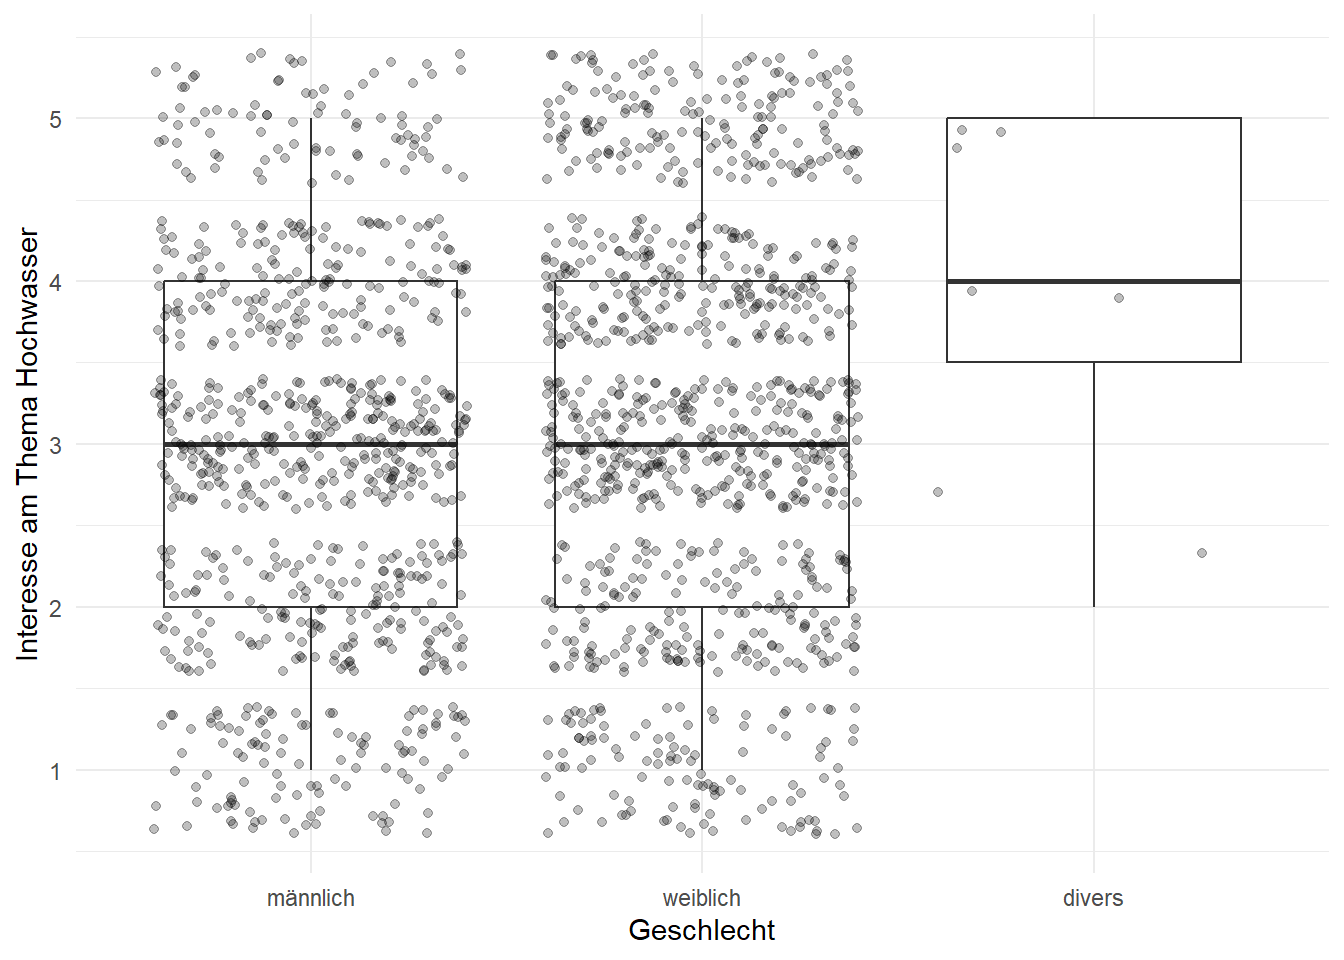
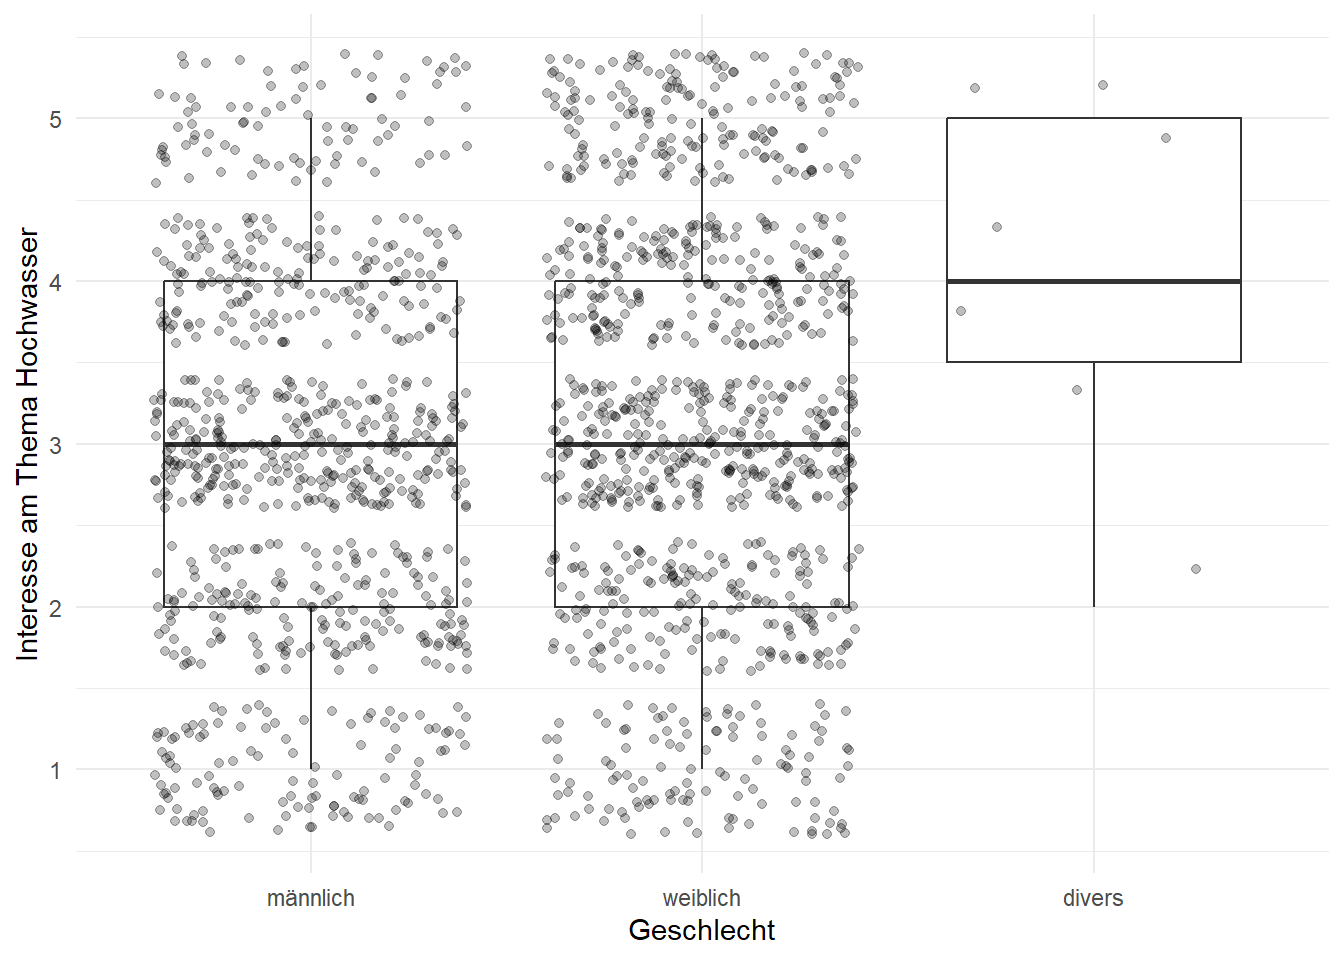
Add files via upload

diff --git a/docs/Skalenniveaus und deskriptive Datenanalyse.html b/docs/Skalenniveaus und deskriptive Datenanalyse.html
@@ -344,7 +344,7 @@ pre > code.sourceCode > span > a:first-child::before { text-decoration: underlin
 </div>
 <p>Nun sehen wir, dass der Wert <code>weiblich</code> am häufigsten vorkommt. Was wir nicht sehen, ist, wie oft der Wert vorkommt.</p>
 <p>Schauen wir uns als nächstes an, wie Sie nominale Daten bzw. den Modus visualisieren können. Im letzten Kapitel wurde in Kürze das <code>tidyverse</code> vorgestellt und auf das Paket <code>ggplot2</code> verwiesen, mit dem wir Plots erstellen können.</p>
-<p>Im Folgenden werden wir Schritt für Schritt ein einfaches Balkendiagramm erstellen und es nach und nach verbessern. Wir fangen damit an, dass wir das <code>tidyverse</code> laden. Wir erstellen dann ein neues Objekt für unseren Plot. Dazu geben wir unseren Datensatz mit der Pipe an die Funktion <code>ggplot()</code> weiter. Das ist die Hauptfunktion des Pakets. Üblicherweise wird innerhalb dieser Funktion die Funktion <code>aes()</code> (für aesthetics) aufgerufen, in der wir je nach Diagramm angeben, welche Spalten auf der x- und y-Achse dargestellt werden sollen. Für ein Balkendiagramm benötigen wir nur die x-Achse, geben also <code>x = geschlechtMitNAs</code> an. Damit sagen wir erstmal nur, welche Spalte wir darstellen wollen, aber noch nichts darüber, was für eine Darstellung es werden soll. Um die Art des Diagramms festzulegen, gibt es in <code>ggplot2</code> unzählige Funktionen, die alle mit <code>geom_</code> beginnen (für geometry). Hinter dem Unterstrich folgt dann der (englische) Name des Diagrammtyps. In unserem Fall eines Balkendiagramms, heißt die entsprechende Funktion <code>geom_bar()</code>. Anders als sonst, verbinden wir die Funktionen in <code>ggplot2</code> nicht über die Pipe, sondern ein Pluszeichen. In der Summe sieht der Code dann so aus:</p>
+<p>Im Folgenden werden wir Schritt für Schritt ein einfaches Balkendiagramm erstellen und es nach und nach verbessern. Wir fangen damit an, dass wir das <code>tidyverse</code> laden. Wir erstellen dann ein neues Objekt für unseren Plot. Dazu geben wir unseren Datensatz mit der Pipe an die Funktion <code>ggplot()</code> weiter. Das ist die Hauptfunktion des Pakets. Üblicherweise wird innerhalb dieser Funktion die Funktion <code>aes()</code> (für aesthetics) aufgerufen, in der wir je nach Diagramm angeben, welche Spalten auf der x- und y-Achse dargestellt werden sollen. Für ein Balkendiagramm benötigen wir nur die x-Achse, geben also <code>x = geschlechtMitNAs</code> an. Damit sagen wir erstmal nur, welche Spalte wir darstellen wollen, aber noch nichts darüber, was für eine Darstellung es werden soll. Um die Art des Diagramms festzulegen, gibt es in <code>ggplot2</code> unzählige Funktionen, die alle mit <code>geom_</code> beginnen (für geometry). Hinter dem Unterstrich folgt dann der (englische) Name des Diagrammtyps. In unserem Fall eines Balkendiagramms heißt die entsprechende Funktion <code>geom_bar()</code>. Anders als sonst verbinden wir die Funktionen in <code>ggplot2</code> nicht über die Pipe, sondern ein Pluszeichen. In der Summe sieht der Code dann so aus:</p>
 <div class="cell">
 <div class="code-copy-outer-scaffold"><div class="sourceCode cell-code" id="cb9"><pre class="sourceCode r code-with-copy"><code class="sourceCode r"><span id="cb9-1"><a href="#cb9-1" aria-hidden="true" tabindex="-1"></a><span class="co"># Erstellt ein einfaches Balkendiagramm der Geschlechtsabfrage</span></span>
 <span id="cb9-2"><a href="#cb9-2" aria-hidden="true" tabindex="-1"></a></span>
@@ -562,7 +562,7 @@ pre > code.sourceCode > span > a:first-child::before { text-decoration: underlin
 </div>
 </div>
 </div>
-<p>Was Sie hier sehen, ist erstmal nicht sonderlich hübsch, sollte aber dennoch kurz erklärt werden: Die dicke schwarze Linie beim Wert <code>3</code> zeigt den Median. Die eingekasteten Bereiche darüber und darunter zeigen das 75. bzw. das 25. Quartil. Oder einfach gesagt: 25 % der Befragten haben den Wert <code>2</code> oder weniger angegeben und weitere 25 % den Wert <code>4</code> oder mehr. Die Linien nach unten und oben zeigen den Bereich, in dem die meisten Werte angesiedelt sind.<a href="#fn1" class="footnote-ref" id="fnref1" role="doc-noteref"><sup>1</sup></a></p>
+<p>Was Sie hier sehen, ist erstmal nicht sonderlich hübsch, sollte aber dennoch kurz erklärt werden: Die dicke schwarze Linie beim Wert <code>3</code> zeigt den Median. Die Ober- und Unterkante der Box zeigen das 75. bzw. das 25. Quartil. Oder einfach gesagt: 25 % der Befragten haben den Wert <code>2</code> oder weniger angegeben und weitere 25 % den Wert <code>4</code> oder mehr. Die Linien nach unten und oben zeigen den Bereich, in dem die meisten Werte angesiedelt sind.<a href="#fn1" class="footnote-ref" id="fnref1" role="doc-noteref"><sup>1</sup></a></p>
 <p>Folgende Probleme hat die Darstellung:</p>
 <ul>
 <li>Der Boxplot ist sehr breit. Das sieht furchtbar aus!</li>
@@ -668,15 +668,20 @@ pre > code.sourceCode > span > a:first-child::before { text-decoration: underlin
 <span id="cb27-4"><a href="#cb27-4" aria-hidden="true" tabindex="-1"></a>  <span class="fu">mutate</span>(<span class="at">geburtsjahr =</span> <span class="fu">str_sub</span>(geburtsjahr, <span class="sc">-</span><span class="dv">4</span>)) <span class="sc">|&gt;</span></span>
 <span id="cb27-5"><a href="#cb27-5" aria-hidden="true" tabindex="-1"></a>  <span class="fu">mutate</span>(<span class="at">geburtsjahr =</span> <span class="fu">as.integer</span>(geburtsjahr)) <span class="sc">|&gt;</span></span>
 <span id="cb27-6"><a href="#cb27-6" aria-hidden="true" tabindex="-1"></a>  <span class="fu">mutate</span>(<span class="at">geburtsjahr =</span> <span class="fu">ifelse</span>(geburtsjahr <span class="sc">&lt;</span> <span class="dv">1000</span>, geburtsjahr<span class="sc">+</span><span class="dv">1000</span>, geburtsjahr)) <span class="sc">|&gt;</span></span>
-<span id="cb27-7"><a href="#cb27-7" aria-hidden="true" tabindex="-1"></a>  <span class="fu">mutate</span>(<span class="at">alter =</span> <span class="dv">2022</span> <span class="sc">-</span> geburtsjahr)</span>
-<span id="cb27-8"><a href="#cb27-8" aria-hidden="true" tabindex="-1"></a></span>
-<span id="cb27-9"><a href="#cb27-9" aria-hidden="true" tabindex="-1"></a><span class="co"># Berechnet Mittelwert und Standardabweichung des Alters</span></span>
-<span id="cb27-10"><a href="#cb27-10" aria-hidden="true" tabindex="-1"></a></span>
-<span id="cb27-11"><a href="#cb27-11" aria-hidden="true" tabindex="-1"></a>df_alter <span class="ot">&lt;-</span> df_lokal <span class="sc">|&gt;</span></span>
-<span id="cb27-12"><a href="#cb27-12" aria-hidden="true" tabindex="-1"></a>  <span class="fu">summarise</span>(<span class="at">MWAlter =</span> <span class="fu">round</span>(<span class="fu">mean</span>(alter, <span class="at">na.rm =</span> <span class="cn">TRUE</span>), <span class="dv">2</span>),</span>
-<span id="cb27-13"><a href="#cb27-13" aria-hidden="true" tabindex="-1"></a>            <span class="at">SDAlter =</span> <span class="fu">round</span>(<span class="fu">sd</span>(alter, <span class="at">na.rm =</span> <span class="cn">TRUE</span>), <span class="dv">2</span>))</span>
-<span id="cb27-14"><a href="#cb27-14" aria-hidden="true" tabindex="-1"></a></span>
-<span id="cb27-15"><a href="#cb27-15" aria-hidden="true" tabindex="-1"></a>df_alter</span></code></pre></div><button title="Copy to Clipboard" class="code-copy-button"><i class="bi"></i></button></div>
+<span id="cb27-7"><a href="#cb27-7" aria-hidden="true" tabindex="-1"></a>  <span class="fu">mutate</span>(<span class="at">alter =</span> <span class="dv">2022</span> <span class="sc">-</span> geburtsjahr)</span></code></pre></div><button title="Copy to Clipboard" class="code-copy-button"><i class="bi"></i></button></div>
+<div class="cell-output cell-output-stderr">
+<pre><code>Warning: There was 1 warning in `mutate()`.
+ℹ In argument: `geburtsjahr = as.integer(geburtsjahr)`.
+Caused by warning:
+! NAs durch Umwandlung erzeugt</code></pre>
+</div>
+<div class="code-copy-outer-scaffold"><div class="sourceCode cell-code" id="cb29"><pre class="sourceCode r code-with-copy"><code class="sourceCode r"><span id="cb29-1"><a href="#cb29-1" aria-hidden="true" tabindex="-1"></a><span class="co"># Berechnet Mittelwert und Standardabweichung des Alters</span></span>
+<span id="cb29-2"><a href="#cb29-2" aria-hidden="true" tabindex="-1"></a></span>
+<span id="cb29-3"><a href="#cb29-3" aria-hidden="true" tabindex="-1"></a>df_alter <span class="ot">&lt;-</span> df_lokal <span class="sc">|&gt;</span></span>
+<span id="cb29-4"><a href="#cb29-4" aria-hidden="true" tabindex="-1"></a>  <span class="fu">summarise</span>(<span class="at">MWAlter =</span> <span class="fu">round</span>(<span class="fu">mean</span>(alter, <span class="at">na.rm =</span> <span class="cn">TRUE</span>), <span class="dv">2</span>),</span>
+<span id="cb29-5"><a href="#cb29-5" aria-hidden="true" tabindex="-1"></a>            <span class="at">SDAlter =</span> <span class="fu">round</span>(<span class="fu">sd</span>(alter, <span class="at">na.rm =</span> <span class="cn">TRUE</span>), <span class="dv">2</span>))</span>
+<span id="cb29-6"><a href="#cb29-6" aria-hidden="true" tabindex="-1"></a></span>
+<span id="cb29-7"><a href="#cb29-7" aria-hidden="true" tabindex="-1"></a>df_alter</span></code></pre></div><button title="Copy to Clipboard" class="code-copy-button"><i class="bi"></i></button></div>
 <div class="cell-output cell-output-stdout">
 <pre><code>  MWAlter SDAlter
 1   49.66   15.31</code></pre>
@@ -684,15 +689,15 @@ pre > code.sourceCode > span > a:first-child::before { text-decoration: underlin
 </div>
 <p>Wir sehen, dass die Befragten im Mittel 49,66 also fast 50 Jahre alt waren, bei einer Standardabweichung von 15,31 Jahren. Im Video oben haben Sie erfahren, dass bei einer Normalverteilung ca. 68 % aller Werte innerhalb der Region Mittelwert - 1 Standardabweichung bis Mittelwert + 1 Standardabweichung liegen. Hier wäre das entsprechend der Bereich von 34,35 bis 64,97 Jahren, zumindest sofern die Variable normalverteilt ist. Um das zu prüfen und generell um metrische Daten zu visualisieren, können wir ein sogenanntes Histogramm zeichnen. Dazu nutzen wir <code>geom_histogram()</code>. Im Prinzip handelt es sich dabei um eine Art Balkendiagramm für metrische Daten, bei der einzelne Ausprägungen zusammengefasst werden.</p>
 <div class="cell">
-<div class="code-copy-outer-scaffold"><div class="sourceCode cell-code" id="cb29"><pre class="sourceCode r code-with-copy"><code class="sourceCode r"><span id="cb29-1"><a href="#cb29-1" aria-hidden="true" tabindex="-1"></a>histogramm_alter <span class="ot">&lt;-</span> df_lokal <span class="sc">|&gt;</span></span>
-<span id="cb29-2"><a href="#cb29-2" aria-hidden="true" tabindex="-1"></a>  <span class="fu">filter</span>(<span class="sc">!</span><span class="fu">is.na</span>(alter)) <span class="sc">|&gt;</span></span>
-<span id="cb29-3"><a href="#cb29-3" aria-hidden="true" tabindex="-1"></a>  <span class="fu">ggplot</span>(<span class="fu">aes</span>(<span class="at">x =</span> alter))<span class="sc">+</span></span>
-<span id="cb29-4"><a href="#cb29-4" aria-hidden="true" tabindex="-1"></a>  <span class="fu">geom_histogram</span>(<span class="at">fill =</span> <span class="st">"lightgrey"</span>, <span class="at">bins =</span> <span class="dv">40</span>)<span class="sc">+</span></span>
-<span id="cb29-5"><a href="#cb29-5" aria-hidden="true" tabindex="-1"></a>  <span class="fu">theme_minimal</span>()<span class="sc">+</span></span>
-<span id="cb29-6"><a href="#cb29-6" aria-hidden="true" tabindex="-1"></a>  <span class="fu">labs</span>(<span class="at">x =</span> <span class="st">"Alter der Befragten"</span>, <span class="at">y =</span> <span class="st">"Häufigkeit"</span>)</span>
-<span id="cb29-7"><a href="#cb29-7" aria-hidden="true" tabindex="-1"></a>  </span>
-<span id="cb29-8"><a href="#cb29-8" aria-hidden="true" tabindex="-1"></a></span>
-<span id="cb29-9"><a href="#cb29-9" aria-hidden="true" tabindex="-1"></a>histogramm_alter</span></code></pre></div><button title="Copy to Clipboard" class="code-copy-button"><i class="bi"></i></button></div>
+<div class="code-copy-outer-scaffold"><div class="sourceCode cell-code" id="cb31"><pre class="sourceCode r code-with-copy"><code class="sourceCode r"><span id="cb31-1"><a href="#cb31-1" aria-hidden="true" tabindex="-1"></a>histogramm_alter <span class="ot">&lt;-</span> df_lokal <span class="sc">|&gt;</span></span>
+<span id="cb31-2"><a href="#cb31-2" aria-hidden="true" tabindex="-1"></a>  <span class="fu">filter</span>(<span class="sc">!</span><span class="fu">is.na</span>(alter)) <span class="sc">|&gt;</span></span>
+<span id="cb31-3"><a href="#cb31-3" aria-hidden="true" tabindex="-1"></a>  <span class="fu">ggplot</span>(<span class="fu">aes</span>(<span class="at">x =</span> alter))<span class="sc">+</span></span>
+<span id="cb31-4"><a href="#cb31-4" aria-hidden="true" tabindex="-1"></a>  <span class="fu">geom_histogram</span>(<span class="at">fill =</span> <span class="st">"lightgrey"</span>, <span class="at">bins =</span> <span class="dv">40</span>)<span class="sc">+</span></span>
+<span id="cb31-5"><a href="#cb31-5" aria-hidden="true" tabindex="-1"></a>  <span class="fu">theme_minimal</span>()<span class="sc">+</span></span>
+<span id="cb31-6"><a href="#cb31-6" aria-hidden="true" tabindex="-1"></a>  <span class="fu">labs</span>(<span class="at">x =</span> <span class="st">"Alter der Befragten"</span>, <span class="at">y =</span> <span class="st">"Häufigkeit"</span>)</span>
+<span id="cb31-7"><a href="#cb31-7" aria-hidden="true" tabindex="-1"></a>  </span>
+<span id="cb31-8"><a href="#cb31-8" aria-hidden="true" tabindex="-1"></a></span>
+<span id="cb31-9"><a href="#cb31-9" aria-hidden="true" tabindex="-1"></a>histogramm_alter</span></code></pre></div><button title="Copy to Clipboard" class="code-copy-button"><i class="bi"></i></button></div>
 <div class="cell-output-display">
 <div>
 <figure class="figure">
@@ -705,25 +710,25 @@ pre > code.sourceCode > span > a:first-child::before { text-decoration: underlin
 <p>Während uns das Histogramm einen guten Überblick über die Verteilung als Ganze gibt, ist es manchmal sinnvoll, Mittelwert und Standardabweichung direkt darzustellen. Das gilt insbesondere dann, wenn Sie mehrere Gruppen vergleichen wollen. Im folgenden Beispiel stellen wir das Durchschnittsalter (also den Mittelwert) der Befragten nach Geschlecht dar. Dazu wollen wir die Streuung um den Mittelwert der jeweiligen Gruppen darstellen. Hier machen wir das, indem wir die Standardabweichung ebenfalls darstellen. In wissenschaftlichen Arbeiten werden Ihnen auch immer mal Darstellungen begegnen, in denen andere Maße genutzt werden: entweder der Standardfehler oder sogenannte Konfidenzintervalle. Die Begriffe werden wir noch kennenlernen, ignorieren sie aber in diesem Kapitel noch.</p>
 <p>Für unser Beispiel berechnen wir als erstes Mittelwert und Standardabweichung der jeweiligen Gruppen. Alles, was wir dafür brauchen, haben wir schon kennengelernt: Wir nutzen <code>filter()</code>, um fehlende Werte auszuschließen, nutzen <code>group_by()</code>, um die Daten zu gruppieren und rufen dann <code>mean()</code> und <code>sd()</code> innerhalb von <code>summarise()</code> auf.</p>
 <div class="cell">
-<div class="code-copy-outer-scaffold"><div class="sourceCode cell-code" id="cb30"><pre class="sourceCode r code-with-copy"><code class="sourceCode r"><span id="cb30-1"><a href="#cb30-1" aria-hidden="true" tabindex="-1"></a><span class="co"># Berechnet Mittelwert und Standardabweichung nach Geschlecht</span></span>
-<span id="cb30-2"><a href="#cb30-2" aria-hidden="true" tabindex="-1"></a>df_lokal_alterUndGeschlecht <span class="ot">&lt;-</span> df_lokal <span class="sc">|&gt;</span></span>
-<span id="cb30-3"><a href="#cb30-3" aria-hidden="true" tabindex="-1"></a>  <span class="fu">filter</span>(<span class="sc">!</span><span class="fu">is.na</span>(geschlechtMitNAs)) <span class="sc">|&gt;</span></span>
-<span id="cb30-4"><a href="#cb30-4" aria-hidden="true" tabindex="-1"></a>  <span class="fu">filter</span>(<span class="sc">!</span><span class="fu">is.na</span>(alter)) <span class="sc">|&gt;</span></span>
-<span id="cb30-5"><a href="#cb30-5" aria-hidden="true" tabindex="-1"></a>  <span class="fu">group_by</span>(geschlechtMitNAs) <span class="sc">|&gt;</span></span>
-<span id="cb30-6"><a href="#cb30-6" aria-hidden="true" tabindex="-1"></a>  <span class="fu">summarise</span>(<span class="at">MWAlter =</span> <span class="fu">mean</span>(alter),</span>
-<span id="cb30-7"><a href="#cb30-7" aria-hidden="true" tabindex="-1"></a>            <span class="at">SDAlter =</span> <span class="fu">sd</span>(alter))</span></code></pre></div><button title="Copy to Clipboard" class="code-copy-button"><i class="bi"></i></button></div>
+<div class="code-copy-outer-scaffold"><div class="sourceCode cell-code" id="cb32"><pre class="sourceCode r code-with-copy"><code class="sourceCode r"><span id="cb32-1"><a href="#cb32-1" aria-hidden="true" tabindex="-1"></a><span class="co"># Berechnet Mittelwert und Standardabweichung nach Geschlecht</span></span>
+<span id="cb32-2"><a href="#cb32-2" aria-hidden="true" tabindex="-1"></a>df_lokal_alterUndGeschlecht <span class="ot">&lt;-</span> df_lokal <span class="sc">|&gt;</span></span>
+<span id="cb32-3"><a href="#cb32-3" aria-hidden="true" tabindex="-1"></a>  <span class="fu">filter</span>(<span class="sc">!</span><span class="fu">is.na</span>(geschlechtMitNAs)) <span class="sc">|&gt;</span></span>
+<span id="cb32-4"><a href="#cb32-4" aria-hidden="true" tabindex="-1"></a>  <span class="fu">filter</span>(<span class="sc">!</span><span class="fu">is.na</span>(alter)) <span class="sc">|&gt;</span></span>
+<span id="cb32-5"><a href="#cb32-5" aria-hidden="true" tabindex="-1"></a>  <span class="fu">group_by</span>(geschlechtMitNAs) <span class="sc">|&gt;</span></span>
+<span id="cb32-6"><a href="#cb32-6" aria-hidden="true" tabindex="-1"></a>  <span class="fu">summarise</span>(<span class="at">MWAlter =</span> <span class="fu">mean</span>(alter),</span>
+<span id="cb32-7"><a href="#cb32-7" aria-hidden="true" tabindex="-1"></a>            <span class="at">SDAlter =</span> <span class="fu">sd</span>(alter))</span></code></pre></div><button title="Copy to Clipboard" class="code-copy-button"><i class="bi"></i></button></div>
 </div>
 <p>Um die Gruppenmittelwerte mit jeweiliger Standardabweichung abzubilden, nutzen wir zwei neue <code>geom_</code>-Funktionen: <code>geom_point()</code> für die Mittelwerte und <code>geom_errorbar()</code> für die Standardabweichungen. Aber fangen wir oben an: zunächst legen wir in <code>ggplot()</code> und <code>aes()</code> fest, dass wir das Alter auf der y-Achse und das Geschlecht auf der x-Achse darstellen wollen. geom_point() sorgt dafür, dass die Gruppenmittelwerte jeweils durch einen Punkt dargestellt werden. <code>geom_errorbar()</code> zeichnet Balken um diese Punkte. Dazu müssen wir wieder in aes() angeben, wo diese Balken anfangen und aufhören sollen. Den Startpunkt legen wir mit <code>ymin=MWAlter-SDAlter</code> und den Endpunkt mit <code>ymax=MWAlter+SDAlter</code> fest.</p>
 <div class="cell">
-<div class="code-copy-outer-scaffold"><div class="sourceCode cell-code" id="cb31"><pre class="sourceCode r code-with-copy"><code class="sourceCode r"><span id="cb31-1"><a href="#cb31-1" aria-hidden="true" tabindex="-1"></a><span class="co"># Plottet die Gruppenmittelwerte und Standardabweichungen</span></span>
-<span id="cb31-2"><a href="#cb31-2" aria-hidden="true" tabindex="-1"></a>alter_nach_geschlecht <span class="ot">&lt;-</span> df_lokal_alterUndGeschlecht <span class="sc">|&gt;</span></span>
-<span id="cb31-3"><a href="#cb31-3" aria-hidden="true" tabindex="-1"></a>  <span class="fu">ggplot</span>(<span class="fu">aes</span>(<span class="at">x =</span> geschlechtMitNAs, <span class="at">y =</span> MWAlter))<span class="sc">+</span></span>
-<span id="cb31-4"><a href="#cb31-4" aria-hidden="true" tabindex="-1"></a>  <span class="fu">geom_point</span>()<span class="sc">+</span></span>
-<span id="cb31-5"><a href="#cb31-5" aria-hidden="true" tabindex="-1"></a>  <span class="fu">geom_errorbar</span>(<span class="fu">aes</span>(<span class="at">ymin=</span>MWAlter<span class="sc">-</span>SDAlter, <span class="at">ymax=</span>MWAlter<span class="sc">+</span>SDAlter))<span class="sc">+</span></span>
-<span id="cb31-6"><a href="#cb31-6" aria-hidden="true" tabindex="-1"></a>  <span class="fu">labs</span>(<span class="at">x =</span> <span class="st">"Geschlecht"</span>, <span class="at">y =</span> <span class="st">"Alter"</span>)<span class="sc">+</span></span>
-<span id="cb31-7"><a href="#cb31-7" aria-hidden="true" tabindex="-1"></a>  <span class="fu">theme_minimal</span>()</span>
-<span id="cb31-8"><a href="#cb31-8" aria-hidden="true" tabindex="-1"></a></span>
-<span id="cb31-9"><a href="#cb31-9" aria-hidden="true" tabindex="-1"></a>alter_nach_geschlecht</span></code></pre></div><button title="Copy to Clipboard" class="code-copy-button"><i class="bi"></i></button></div>
+<div class="code-copy-outer-scaffold"><div class="sourceCode cell-code" id="cb33"><pre class="sourceCode r code-with-copy"><code class="sourceCode r"><span id="cb33-1"><a href="#cb33-1" aria-hidden="true" tabindex="-1"></a><span class="co"># Plottet die Gruppenmittelwerte und Standardabweichungen</span></span>
+<span id="cb33-2"><a href="#cb33-2" aria-hidden="true" tabindex="-1"></a>alter_nach_geschlecht <span class="ot">&lt;-</span> df_lokal_alterUndGeschlecht <span class="sc">|&gt;</span></span>
+<span id="cb33-3"><a href="#cb33-3" aria-hidden="true" tabindex="-1"></a>  <span class="fu">ggplot</span>(<span class="fu">aes</span>(<span class="at">x =</span> geschlechtMitNAs, <span class="at">y =</span> MWAlter))<span class="sc">+</span></span>
+<span id="cb33-4"><a href="#cb33-4" aria-hidden="true" tabindex="-1"></a>  <span class="fu">geom_point</span>()<span class="sc">+</span></span>
+<span id="cb33-5"><a href="#cb33-5" aria-hidden="true" tabindex="-1"></a>  <span class="fu">geom_errorbar</span>(<span class="fu">aes</span>(<span class="at">ymin=</span>MWAlter<span class="sc">-</span>SDAlter, <span class="at">ymax=</span>MWAlter<span class="sc">+</span>SDAlter))<span class="sc">+</span></span>
+<span id="cb33-6"><a href="#cb33-6" aria-hidden="true" tabindex="-1"></a>  <span class="fu">labs</span>(<span class="at">x =</span> <span class="st">"Geschlecht"</span>, <span class="at">y =</span> <span class="st">"Alter"</span>)<span class="sc">+</span></span>
+<span id="cb33-7"><a href="#cb33-7" aria-hidden="true" tabindex="-1"></a>  <span class="fu">theme_minimal</span>()</span>
+<span id="cb33-8"><a href="#cb33-8" aria-hidden="true" tabindex="-1"></a></span>
+<span id="cb33-9"><a href="#cb33-9" aria-hidden="true" tabindex="-1"></a>alter_nach_geschlecht</span></code></pre></div><button title="Copy to Clipboard" class="code-copy-button"><i class="bi"></i></button></div>
 <div class="cell-output-display">
 <div>
 <figure class="figure">
@@ -759,7 +764,7 @@ pre > code.sourceCode > span > a:first-child::before { text-decoration: underlin
 <section id="footnotes" class="footnotes footnotes-end-of-document" role="doc-endnotes">
 <hr>
 <ol>
-<li id="fn1"><p>Die exakte Definition ist, dass die maximale Länge der Linien durch den Innerquartilabstand definiert wird. Hierbei handelt es sich um die Distanz zwischen dem 25. und dem 75. Quartil. Dieser Abstand wird mit 1,5 multipliziert, um die maximale Länge der sogenannten Whisker zu erhalten. Wenn kein Punkt so weit vom 25. bzw. 75. Quartil entfernt ist, sind die Whisker entsprechend kürzer.<a href="#fnref1" class="footnote-back" role="doc-backlink">↩</a></p></li>
+<li id="fn1"><p>Die exakte Definition ist, dass die maximale Länge der Linien durch den Interquartilabstand definiert wird. Hierbei handelt es sich um die Distanz zwischen dem 25. und dem 75. Quartil. Dieser Abstand wird mit 1,5 multipliziert, um die maximale Länge der sogenannten Whisker zu erhalten. Wenn kein Punkt so weit vom 25. bzw. 75. Quartil entfernt ist, sind die Whisker entsprechend kürzer.<a href="#fnref1" class="footnote-back" role="doc-backlink">↩</a></p></li>
 </ol>
 </section>
 
